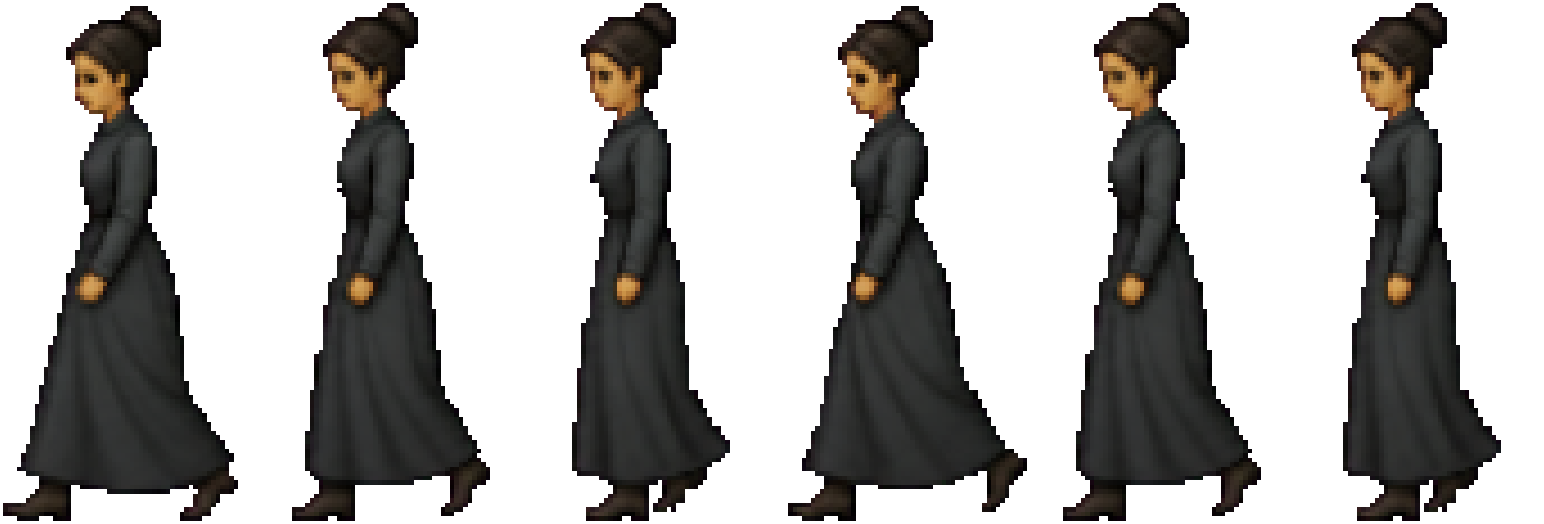
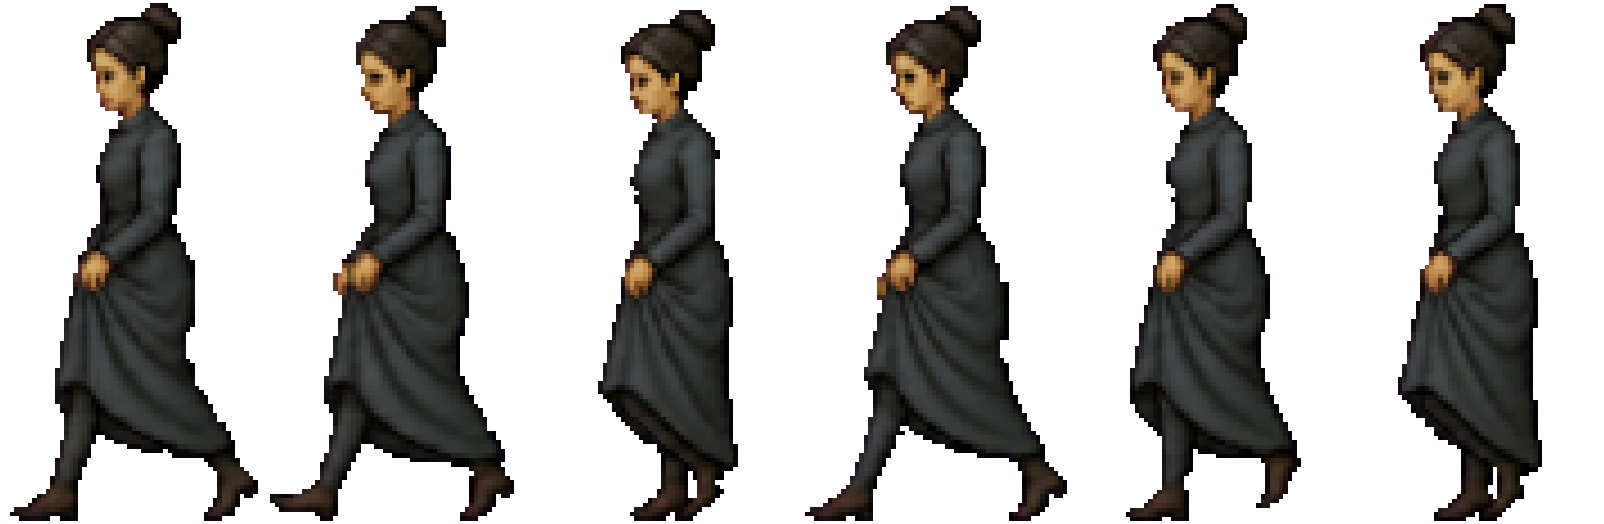
Errata 275: Winnie's walk with the hem lifted; Main Street's redraw handed back, not promoted
Lesson: none -- art cut and wired, no fix.

Claude-Session: https://claude.ai/code/session_01FXbCus2Hm36NL2YuHFGB8T

diff --git a/tools/art/second-ledger-walk.py b/tools/art/second-ledger-walk.py
@@ -1,4 +1,6 @@
-"""Winnie's walk to the loose board, cut (reference/second-ledger/walk-brief.md, errata 270).
+"""Winnie's walk to the loose board, cut. Errata 275: from the hem-lifted sheet (winnie-walk-2); errata 270 cut the first.
+
+(Errata 270's account follows.) (reference/second-ledger/walk-brief.md, errata 270).
 
   python3 tools/art/second-ledger-walk.py
 
@@ -23,12 +25,12 @@ import numpy as np
 from PIL import Image
 
 ROOT = os.path.dirname(os.path.dirname(os.path.dirname(os.path.abspath(__file__))))
-SHEET = os.path.join(ROOT, 'art/staging/room-05/second-ledger/walk/sheet-03.png')
+SHEET = os.path.join(ROOT, 'art/staging/room-05/second-ledger/walk2/sheet-04-fix.png')
 OUT = os.path.join(ROOT, 'art/actors/winnie-walk.png')
 RECORD = os.path.join(ROOT, 'art/staging/room-05/second-ledger/winnie-walk.json')
 MAN, TARGET = 518, 518
-ORDER = [0, 2, 3, 1, 2, 3]
-GRADE = np.array([45 / 53, 46 / 53, 45 / 50])
+ORDER = [0, 1, 2, 3, 4, 5]   # errata 275: the hem-lifted sheet is drawn in walking order
+GRADE = np.array([47.6 / 57.6, 47.4 / 54.4, 45.2 / 44.5])   # her fabric on her sheet over the fabric on this one
 KEY = np.array([255, 0, 255])
 
 src = open(os.path.join(ROOT, 'tools/art/one-level.py')).read()
@@ -84,8 +86,8 @@ def main():
     sheet.save(OUT, optimize=True)
     tallest = max(int((np.asarray(c)[..., 3] > 0).any(1).sum()) for c in cells)
     record = {'sheet': os.path.relpath(OUT, ROOT), 'frames': frames, 'figureHeight': tallest, 'drawnFacing': 'left',
-              'order': 'drawn frames 1 3 4 2 3 4: stride, closing, feet together, twice',
-              'source': 'room-05-second-ledger attempt 3 (art/staging/room-05/second-ledger/walk/sheet-03.png)'}
+              'order': 'as drawn: contact, down, passing, contact, down, passing',
+              'source': 'winnie-walk-2 attempt 2 (art/staging/room-05/second-ledger/walk2/sheet-04-fix.png): the hem lifted, errata 275'}
     json.dump(record, open(RECORD, 'w'), indent=1)
     print(json.dumps(record))
 

diff --git a/docs/00-errata.md b/docs/00-errata.md
@@ -7251,3 +7251,12 @@ Tyler, 2026-11-10, on doc 124's two proposals: "You decide". And: "If you feel l
 - **The three to watch, looked at again.** The paperwork run (E4 to E6) is shorter by a conversation and longer by an object: proposal 1 was the fix that needs no new writing. The two errands before Grievance (B1, B2) each pose a question and answer it in one exchange, and they set up the best puzzle of Act II; an object step there would be padding, and new lines. Duel Two plays in about seventy seconds on the route, won; a lost one is no longer. None of the three is changed: the builder could make them different, not better, and a line the documents never wrote is still Tyler's to authorise.
 
 Lesson: `tests/e5-certificate.test.ts` (live only between the death and the obituary; completes nothing itself), proved against the content with the pair taken out; the walkthrough's E5.4 plays it.
+
+## 275 · Winnie's walk, with the hem lifted; and Main Street's redraw handed back, not yet promoted (Tyler, 2026-11-11)
+
+The image session handed back both of errata 272's redraws (`redraws-art`). Tyler raised `room-02-redraw` from 5 to 7 and the spend cap to 4,300,000 during it ("Raise both caps"; recorded in `art/staging/caps.json`).
+
+- **Winnie's walk is the new sheet** (`winnie-walk-2` attempt 2, `walk2/sheet-04-fix.png`): her front hand gathers the skirt and lifts the hem, and the boots and the stride show. `tools/art/second-ledger-walk.py` cuts it in its drawn order, at the room's man, graded to her sheet's fabric. It passes the walk test as any walk does (feet pass in both halves; frames share 51% below the hem), so errata 270's allowance for a skirt is no longer used by anyone; it stays in the test for the next long skirt. Replayed and filmed in the real build: she walks round the counter and kneels at the board as before.
+- **Main Street's redraw is handed back, not promoted.** The candidate (`art/staging/room-02/redraw/candidate-3700x864.png`) is the street in the side streets' hand, stitched from three windows, registered back onto the street (`tools/art/main-street-register.py`), with the Company's lettering restored (`tools/art/main-street-sign.py`; Tyler: "Looks good now"). It is shown to Tyler beside the street as it is before anything is re-placed.
+
+Lesson: none -- art cut and wired, no fix.
